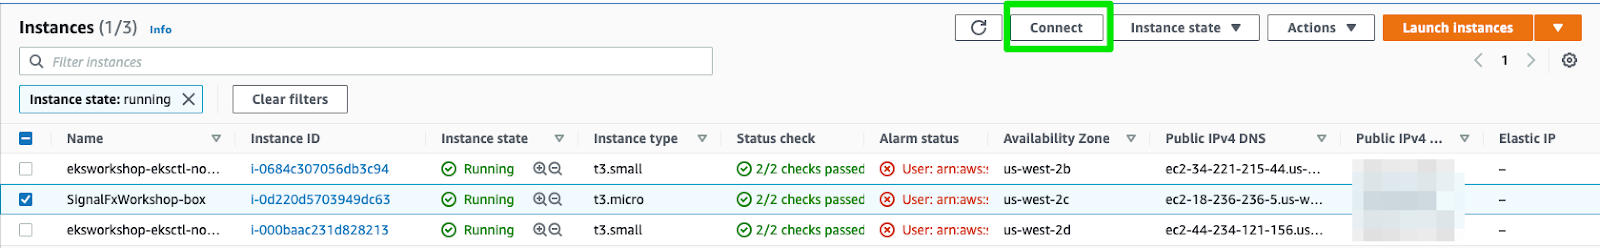
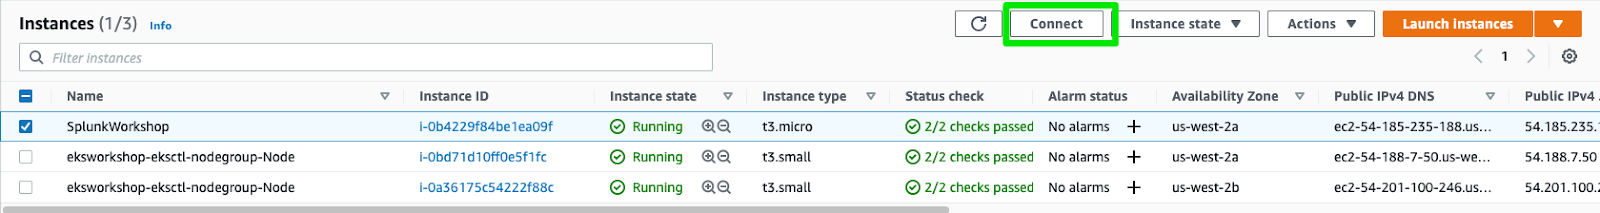
changes

diff --git a/docs/eks/readme-b.md b/docs/eks/readme-b.md
@@ -9,10 +9,12 @@ Select EC2 from Management Console and select Instances (running). You should se
 
 ![Event Engine](../images/eks/ec2-splunk.png)
 
-Select SplunkWorkshop-box instance and click connect to open a SSH session
-![Event Engine](../images/eks/ec2-splunk.png)
+Now select SplunkWorkshop instance and select connect
+![Event Engine](../images/eks/connect-ec2.png)
 
 ## Verify EKS cluster
+Select EC2 Instance Connect tab and click connect. This will open an SSH session to the EC2 instance. Once the instance is opened check the running EKS cluster. You should see a cluster named
+
 ```
 eksctl get cluster
 ```
@@ -25,6 +27,7 @@ aws eks --region us-west-2 update-kubeconfig --name eksworkshop-eksctl
 ```
 kubectl get nodes
 ```
+If we see our 2 nodes, we know we have authenticated correctly
 ### Install Helm 3
 ```
 curl -fsSL -o get_helm.sh https://raw.githubusercontent.com/helm/helm/master/scripts/get-helm-3
